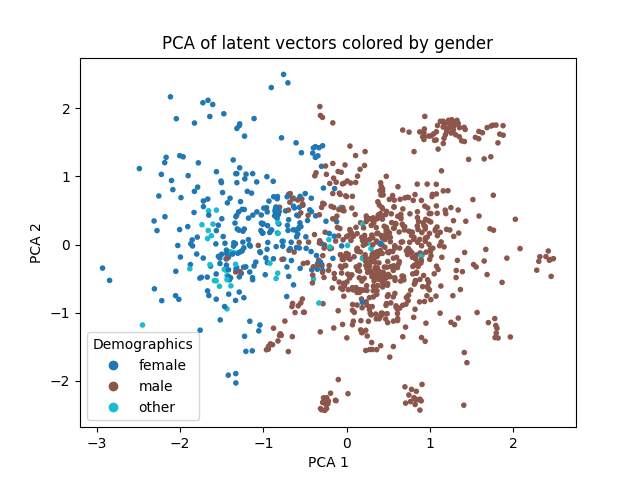
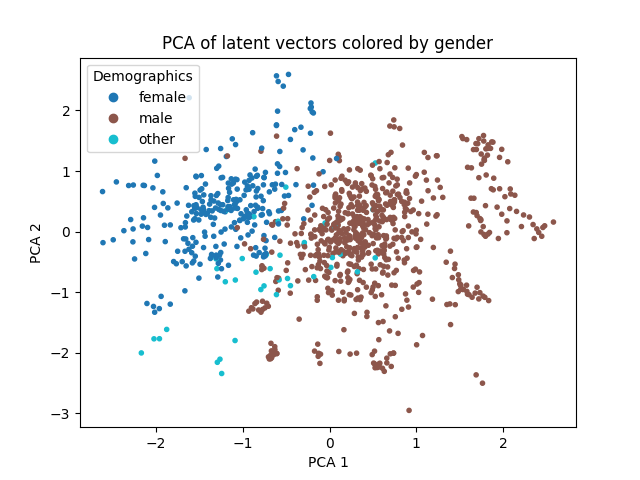
New plots

diff --git a/analysis/plot_embeddings.py b/analysis/plot_embeddings.py
@@ -64,7 +64,7 @@ if __name__ == "__main__":
     N_SAMPLES = 1000
     DEMOGRAPHIC = "gender"
     APPLY_AGE_GROUPINGS = True
-    MODEL_CKPT = '/project/shrikann_35/nmehlman/logs/ps_vae/cv_freevc_gender_classifier/version_1/checkpoints/epoch=199-step=29800.ckpt'
+    MODEL_CKPT = '/project/shrikann_35/nmehlman/logs/ps_vae/cv_freevc_gender_classifier/version_2/checkpoints/epoch=199-step=59400.ckpt'
     DATA_ROOT = "/project/shrikann_35/tiantiaf/arts/cv-corpus-11.0-2022-09-21/en/"
     SE_MODEL = "vc"
     SAVE_AS = "/home1/nmehlman/arts/pseudo_speakers/pseudo_speaker_VAE/plots/vae_latent_gender+classifier.png"
